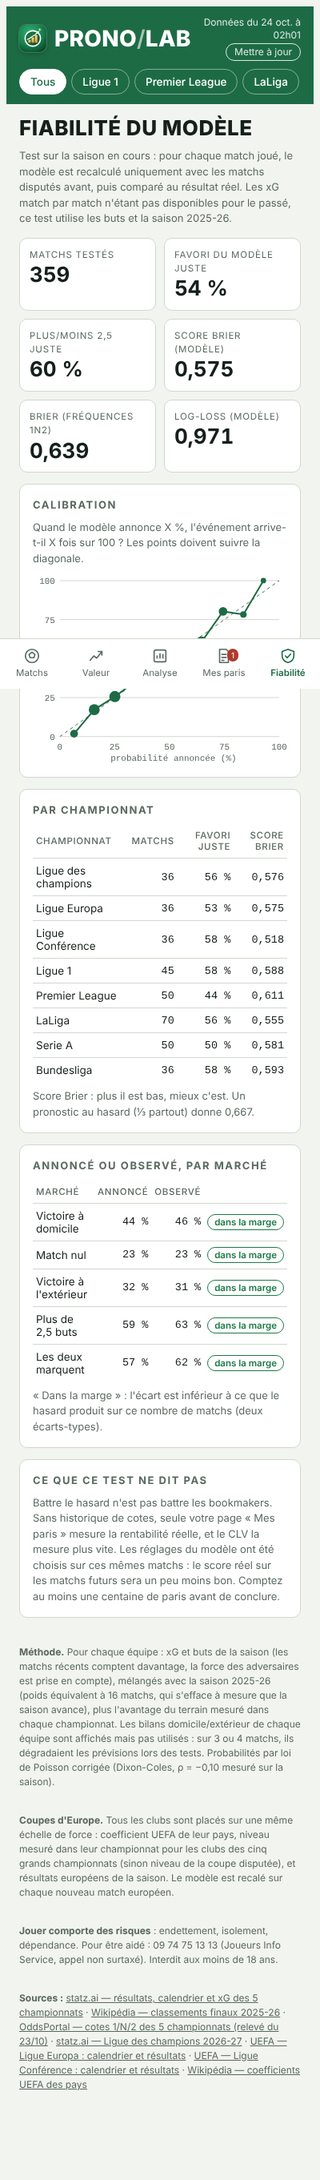
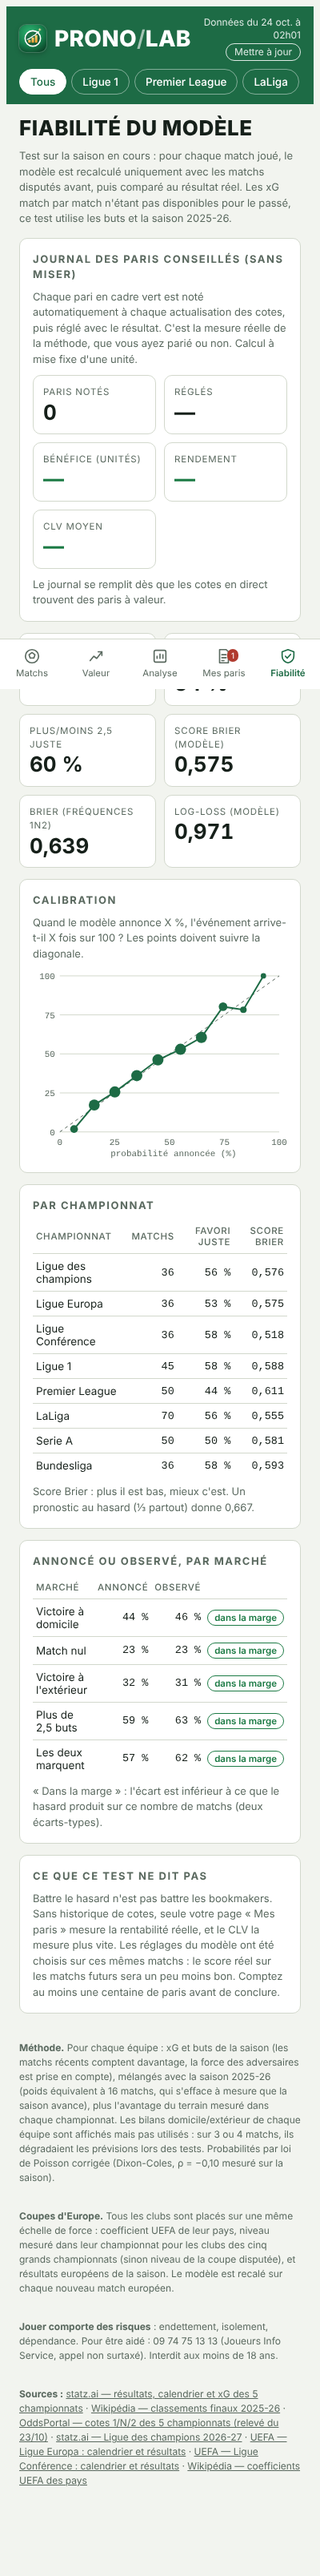
Rentabilité : cotes de référence valables 6 h, seuil de valeur selon l'éloignement du match, pas de pari sur un match commencé, horaires du fournisseur, cote Unibet internationale signalée, CLV automatique, journal des paris conseillés
Claude-Session: https://claude.ai/code/session_01MQ8HS3JA5C3ApubduFf8tp

Changed region(s): [[0.03, 0.0, 0.99, 0.968], [0.87, 0.2498, 0.96, 0.3123]]

diff --git a/app.html b/app.html
@@ -374,6 +374,12 @@ table{border-collapse:collapse;width:100%}
       <div class="viewhead"><h2>Fiabilité du modèle</h2></div>
       <div class="stack">
         <p class="hint">Test sur la saison en cours : pour chaque match joué, le modèle est recalculé uniquement avec les matchs disputés avant, puis comparé au résultat réel. Les xG match par match n'étant pas disponibles pour le passé, ce test utilise les buts et la saison 2025-26.</p>
+        <div class="panel">
+          <p class="label">Journal des paris conseillés (sans miser)</p>
+          <p class="hint" style="margin-bottom:10px">Chaque pari en cadre vert est noté automatiquement à chaque actualisation des cotes, puis réglé avec le résultat. C'est la mesure réelle de la méthode, que vous ayez parié ou non. Calcul à mise fixe d'une unité.</p>
+          <div class="kpis" id="jKpis"></div>
+          <p class="hint" id="jTxt" style="margin-top:10px"></p>
+        </div>
         <div class="kpis" id="fKpis"></div>
         <div class="two">
           <div class="panel">
@@ -718,10 +724,10 @@ function openBookSheet(pre){
   const fixt = L.matches.find(m => m.h === pre.h && m.a === pre.a && !m.s);
   const r = predict(C, pre.h, pre.a), outs = fixt ? matchOutcomes(fixt, r) : [];
   const out = outs.find(x => x.k === pre.mk), p = MARKETS[pre.mk].p(r), mp = out ? out.mp : null;
-  const mo = out && out.sharp ? (1 + SHARP_MIN) / out.p : minOdds(p, mp), [bn, bu] = book();
+  const mo = out && out.sharp ? (1 + sharpMinFor(fixt ? fixt.d : nowStr())) / out.p : minOdds(p, mp), [bn, bu] = book();
   let stake = pre.stake;
   // mise calculée à la cote minimale : prudente, et indépendante de cotes relevées qui ont pu bouger
-  if (stake == null && mo) stake = (out && out.sharp ? stakeFor(out.p, out.p, mo * 1.0001, { min: SHARP_MIN }) : stakeFor(p, mp, mo * 1.0001)).stake || null;
+  if (stake == null && mo) stake = (out && out.sharp ? stakeFor(out.p, out.p, mo * 1.0001, { min: sharpMinFor(fixt ? fixt.d : nowStr()) }) : stakeFor(p, mp, mo * 1.0001)).stake || null;
   const when = fixt ? `${fmtDay(fixt.d)} ${fmtTime(fixt.d)}` : (pre.d ? `${fmtDay(pre.d)} ${fmtTime(pre.d)}` : "");
   const lab = MARKETS[pre.mk].label(H.name, A.name);
   const lines = [`${H.name} – ${A.name}`, `${L.name}${when ? " · " + when : ""}`, `Pari : ${lab}`];
@@ -732,6 +738,7 @@ function openBookSheet(pre){
   $("sheetHost").innerHTML = `<div class="sheet-bg" id="sheetBg"><div class="sheet">
     <h2 style="font-size:22px">Préparer sur ${esc(bn)}</h2>
     <pre style="margin:0;white-space:pre-wrap;background:var(--surface-2);border:1px solid var(--line);border-radius:8px;padding:12px;font-family:var(--font-data);font-size:13.5px">${esc(txt)}</pre>
+    ${out && out.sharp && fixt && fixt.odds && fixt.odds.intl ? `<div class="alert warn"><div><strong>Cote ${esc(bn)} internationale</strong>Le service de cotes fournit la cote ${esc(bn)} hors France. Sur ${esc(bn)}.fr elle peut être plus basse : fiez-vous à la cote minimale.</div></div>` : ""}
     ${!pre.odds && mo ? `<div class="alert warn"><div><strong>Cote minimale : ${fx(mo)}</strong>En dessous, le pari n'a plus de valeur selon le modèle : ne le jouez pas. Au-dessus, c'est d'autant mieux.</div></div>` : ""}
     <p class="hint">Le récapitulatif est copié et l'application ${esc(bn)} s'ouvre (ou son site, si elle n'est pas installée) : retrouvez le match, vérifiez la cote, puis validez vous-même votre pari.</p>
     <div class="row" style="justify-content:flex-end">
@@ -754,8 +761,11 @@ function openBookSheet(pre){
   if ($("bkRecord")) $("bkRecord").onclick = () => openBetSheet({ lg: pre.lg, d: fixt ? fixt.d : pre.d, h: pre.h, a: pre.a, mk: pre.mk });
 }
 const MAX_ODDS = 6, MIN_P = 0.2, VALUE_MIN = 0.04, STALE_H = 72;   // mises à jour lundi, mercredi, vendredi : 72 h couvre le dimanche soir
-const SHARP_MIN = 0.02;   // avec une probabilité tirée des cotes de référence (Pinnacle), un écart de 2 % suffit
-const isValue = x => x.edge >= (x.sharp ? SHARP_MIN : VALUE_MIN) && x.p >= MIN_P && x.o <= MAX_ODDS;
+const SHARP_MIN = 0.02;   // avec une probabilité tirée des cotes de référence (Pinnacle), un écart de 2 % suffit…
+const SHARP_STALE_H = 6;  // …mais une cote de référence vieille de plus de 6 h n'est plus une référence
+// Les cotes de référence sont moins fiables loin du match (peu de mises engagées) : on exige plus de valeur.
+const sharpMinFor = d => { const h = (pDate(d) - pDate(nowStr())) / 36e5; return h <= 24 ? 0.02 : h <= 72 ? 0.03 : 0.04; };
+const isValue = x => x.edge >= (x.sharp ? (x.m ? sharpMinFor(x.m.d) : SHARP_MIN) : VALUE_MIN) && x.p >= MIN_P && x.o <= MAX_ODDS;
 function pendingStake(){ return bets().filter(x => x.status === "pending").reduce((s,x)=>s+x.stake,0); }
 const kellyFrac = (p, o) => (p*o - 1)/(o - 1);
 function stakeFor(pModel, pMarket, odds, opts = {}){
@@ -791,13 +801,17 @@ function matchOutcomes(m, r){
 function planMatches(list){
   const rows = [];
   list.forEach(({ lg, m, C }) => {
+    // C : jamais de recommandation sur un match commencé
+    if (m.d <= nowStr()) return;
     const r = predict(C, m.h, m.a), outs = matchOutcomes(m, r);
-    const stale = outs.length > 0 && hoursSince(outs[0].at) > STALE_H;
+    const stale = outs.length > 0 && hoursSince(outs[0].at) > (outs[0].sharp ? SHARP_STALE_H : STALE_H);
+    const sMin = sharpMinFor(m.d);
     // Sans cotes de référence, le modèle seul n'est pas assez fiable dans deux cas : un fort écart avec le marché
     // (souvent une absence qu'il ignore) et les coupes d'Europe avec un club hors des 5 grands championnats.
     const euroBlind = C.euro && (C.T[m.h].dom == null || C.T[m.a].dom == null);
     outs.forEach(x => {
-      Object.assign(x, stakeFor(x.p, x.mp, x.o, { stale, min: x.sharp ? SHARP_MIN : undefined }));
+      Object.assign(x, stakeFor(x.p, x.mp, x.o, { stale, min: x.sharp ? sMin : undefined }));
+      if (x.sharp && stale && x.edge >= sMin) x.why = "cotes de plus de 6 h : actualisez";
       if (!x.sharp && x.stake > 0 && x.p - x.mp > 0.08){ x.stake = 0; x.why = "écart suspect avec le marché"; }
       if (!x.sharp && x.stake > 0 && liveKey()){ x.stake = 0; x.why = "pas encore de cote de référence pour ce match"; }
       if (!x.sharp && x.stake > 0 && euroBlind){ x.stake = 0; x.why = "club hors 5 grands championnats : attendre les cotes en direct"; }
@@ -808,7 +822,7 @@ function planMatches(list){
   });
   let extra = 0;
   rows.filter(x => x.best).sort((a,b) => b.kf - a.kf).forEach(x => {
-    const st = stakeFor(x.p, x.mp, x.o, { stale: x.stale, extra, min: x.sharp ? SHARP_MIN : undefined });
+    const st = stakeFor(x.p, x.mp, x.o, { stale: x.stale, extra, min: x.sharp ? sharpMinFor(x.m.d) : undefined });
     x.stake = st.stake; if (!st.stake) { x.why = st.why; x.best = false; } extra += x.stake;
   });
   return rows;
@@ -907,7 +921,7 @@ async function refreshLive(manual){
         const cand = books.filter(b => b.key !== SHARP_BOOK && !EXCHANGES.test(b.key));
         const mine = cand.filter(b => (b.key + " " + b.title).toLowerCase().includes(kw)).sort((x,y) => /fr/.test(y.key) - /fr/.test(x.key))[0];
         const best = [0,1,2].map(i => cand.reduce((acc,b) => b.o[i] > acc.o ? { o: b.o[i], bk: b.title } : acc, { o:0, bk:"" }));
-        data[`${lg}|${m.h}|${m.a}`] = { fair, src, n: books.length, mine: mine ? { bk: mine.title, o: mine.o } : null, best: { o: best.map(x=>x.o), bk: best.map(x=>x.bk) } };
+        data[`${lg}|${m.h}|${m.a}`] = { fair, src, n: books.length, t, mine: mine ? { bk: mine.title, key: mine.key, o: mine.o } : null, best: { o: best.map(x=>x.o), bk: best.map(x=>x.bk) } };
         matched++;
       });
     }
@@ -916,7 +930,7 @@ async function refreshLive(manual){
                msg: err || (unmatched ? `${unmatched} match(s) du fournisseur non reconnu(s).` : "") };
   LS.set("pl_live", ns);
   if (btn){ btn.disabled = false; btn.textContent = "Actualiser les cotes"; }
-  applyLive(); render();
+  applyLive(); trackLive(); render();
   toast(err ? err : `Cotes en direct : ${matched} matchs · ${remaining != null ? remaining + " crédits restants" : ""}`);
 }
 function applyLive(){
@@ -926,8 +940,11 @@ function applyLive(){
     const [lg, h, a] = k.split("|"), L = DATA.leagues[lg]; if (!L) return;
     const m = L.matches.find(x => !x.s && x.h === h && x.a === a); if (!m) return;
     const useMine = v.mine && settings().bestPrice !== true;
-    m.odds = { sharp: true, at: st.at, fair: v.fair, fairSrc: v.src, n: v.n,
-               bk: useMine ? v.mine.bk : null, o: useMine ? v.mine.o : v.best.o, bkPer: useMine ? null : v.best.bk };
+    // l'horaire du fournisseur de cotes est plus fiable que celui du calendrier (heure non précisée, changement de dernière minute)
+    if (v.t && Math.abs(pDate(v.t) - pDate(m.d)) <= 36*36e5) m.d = v.t;
+    const intl = useMine && v.mine.key && !/fr/.test(v.mine.key);
+    m.odds = { sharp: true, at: st.at, fair: v.fair, fairSrc: v.src, n: v.n, intl,
+               bk: useMine ? v.mine.bk + (intl ? " (cote internationale)" : "") : null, o: useMine ? v.mine.o : v.best.o, bkPer: useMine ? null : v.best.bk };
   });
 }
 function liveStatus(){
@@ -936,6 +953,43 @@ function liveStatus(){
   if (!st.at) return "Cotes en direct prêtes : touchez « Actualiser les cotes ».";
   const h = hoursSince(st.at), ago = h < 1 ? `${Math.max(1, Math.round(h*60))} min` : `${Math.round(h)} h`;
   return `Cotes en direct actualisées il y a ${ago}${st.matched ? ` · ${st.matched} matchs` : ""}${st.remaining != null ? ` · ${st.remaining} crédits restants ce mois-ci` : ""}${st.msg ? " · " + st.msg : ""}`;
+}
+
+
+/* CLV automatique et journal des paris conseillés.
+   À chaque actualisation des cotes : (1) chaque pari en attente reçoit la dernière probabilité de référence de son issue
+   → « valeur au dernier relevé » = cote prise × probabilité de référence − 1 (au plus près du coup d'envoi = CLV) ;
+   (2) chaque pari conseillé est noté dans un journal, réglé avec les résultats : on mesure la méthode sans miser. */
+const IDX = { "1":0, "N":1, "2":2 };
+const journal = () => LS.get("pl_journal", []);
+function trackLive(){
+  const st = liveState(); if (!st.at || !st.data) return;
+  const refOf = (lg, h, a) => st.data[`${lg}|${h}|${a}`];
+  const b = bets(); let ch = false;
+  b.forEach(x => { if (x.status !== "pending" || !(x.mk in IDX)) return; const v = refOf(x.lg, x.h, x.a); if (!v) return;
+    const m = findMatch(x); if (m && m.d <= st.at) return;          // match commencé : on garde le dernier relevé d'avant-match
+    x.refP = v.fair[IDX[x.mk]]; x.refAt = st.at; ch = true; });
+  if (ch) saveBets(b);
+  const j = journal(), keys = new Set(j.map(e => e.key)), list = [];
+  for (const [lg, L] of Object.entries(DATA.leagues)) L.matches.filter(m => !m.s && m.odds && m.odds.sharp).forEach(m => list.push({ lg, m, C: CL[lg] }));
+  planMatches(list).filter(x => x.best && x.stake > 0).forEach(x => {
+    const key = `${x.lg}|${x.m.h}|${x.m.a}|${x.k}`;
+    if (!keys.has(key)) { j.push({ key, lg: x.lg, h: x.m.h, a: x.m.a, d: x.m.d, mk: x.k, o: x.o, p: x.p, edge: x.edge, bk: x.bk, at: st.at, hn: x.H, an: x.A }); keys.add(key); }
+  });
+  j.forEach(e => { if (e.res || !(e.mk in IDX)) return; const v = refOf(e.lg, e.h, e.a); if (v && e.d > st.at){ e.refP = v.fair[IDX[e.mk]]; e.refAt = st.at; } });
+  LS.set("pl_journal", j.slice(-500));
+}
+function settleJournal(){
+  const j = journal(); let ch = false;
+  j.forEach(e => { if (e.res) return; const m = findMatch(e); if (m && m.s){ e.res = MARKETS[e.mk].win(m.s[0], m.s[1]) ? "won" : "lost"; e.score = m.s; ch = true; } });
+  if (ch) LS.set("pl_journal", j);
+}
+function journalStats(){
+  const j = journal(), done = j.filter(e => e.res), won = done.filter(e => e.res === "won");
+  const profit = done.reduce((s,e) => s + (e.res === "won" ? e.o - 1 : -1), 0);
+  const withRef = j.filter(e => e.refP), clv = withRef.length ? withRef.reduce((s,e) => s + (e.o * e.refP - 1), 0) / withRef.length : null;
+  const expW = done.reduce((s,e) => s + e.p, 0);
+  return { n: j.length, done: done.length, won: won.length, profit, roi: done.length ? profit / done.length : null, clv, nclv: withRef.length, expW, pending: j.length - done.length };
 }
 
 /* ================= Paris ================= */
@@ -948,6 +1002,7 @@ function findMatch(b){
       || L.matches.find(m => m.h === b.h && m.a === b.a && m.s && m.d.slice(0,10) >= b.d.slice(0,10));
 }
 function autoSettle(){
+  settleJournal();
   const b = bets(); let changed = 0;
   b.forEach(x => {
     if (x.status !== "pending" || !MARKETS[x.mk]) return;
@@ -965,7 +1020,8 @@ function betStats(){
   const wins = set.filter(x=>x.status==="won").length;
   const weekAgo = parisStr(Date.now() - 7*864e5);
   const week = b.filter(x => x.createdAt >= weekAgo).reduce((s,x)=>s+x.stake,0);
-  const cl = b.filter(x => x.close > 1), clv = cl.length ? cl.reduce((s,x)=>s+(x.odds/x.close-1),0)/cl.length : null;
+  // CLV : cote de clôture saisie à la main en priorité, sinon dernière probabilité de référence relevée avant le match
+  const cl = b.filter(x => x.close > 1 || x.refP > 0), clv = cl.length ? cl.reduce((s,x)=>s+(x.close > 1 ? x.odds/x.close-1 : x.odds*x.refP-1),0)/cl.length : null;
   const chrono = set.slice().sort((a,c)=> (a.settledAt||a.d) < (c.settledAt||c.d) ? -1 : 1);
   let streak = 0; for (let i = chrono.length-1; i >= 0 && chrono[i].status === "lost"; i--) streak++;
   let bank = settings().bank, peak = bank, dd = 0; chrono.forEach(x => { bank += profitOf(x); peak = Math.max(peak, bank); dd = Math.max(dd, (peak-bank)/peak); });
@@ -1094,7 +1150,7 @@ function renderMatchs(){
       }
       const started = m.d <= now;
       html += `<article class="mcard${best?" value":""}">
-        ${best ? `<div class="ribbon"><span>✓ Pari à valeur : ${esc(MARKETS[best.k].label(H.name, A.name))}</span><span class="num">cote ≥ ${fx(best.sharp ? (1+SHARP_MIN)/best.p : minOdds(best.p, best.mp))} · mise ${eur(best.stake)}</span></div>` : ""}
+        ${best ? `<div class="ribbon"><span>✓ Pari à valeur : ${esc(MARKETS[best.k].label(H.name, A.name))}</span><span class="num">cote ≥ ${fx(best.sharp ? (1+sharpMinFor(m.d))/best.p : minOdds(best.p, best.mp))} · mise ${eur(best.stake)}</span></div>` : ""}
         <div class="mtop"><span>${fmtTime(m.d)}${started?" · en cours ou joué":""}</span><span>${H.rank}e contre ${A.rank}e</span></div>
         <div class="mteams"><div class="t${H.name.length>9?" long":""}">${esc(H.name)}</div><div class="xg">${fx(r.lh,1)} – ${fx(r.la,1)}</div><div class="t a${A.name.length>9?" long":""}">${esc(A.name)}</div></div>
         <div class="minibar"><i class="h" style="width:${r.pH*100}%"></i><i class="d" style="width:${r.pD*100}%"></i><i class="a" style="width:${r.pA*100}%"></i></div>
@@ -1240,13 +1296,15 @@ function renderAnalyse(){
 }
 function renderEdges(){
   if (!ui.last) return;
-  const { r } = ui.last;
+  let { r } = ui.last; const fx0 = ui.last.fixt;
+  // avec des cotes de référence pour ce match, la vraie probabilité 1N2 est celle de la référence, pas celle du modèle
+  if (fx0 && fx0.odds && fx0.odds.sharp) r = Object.assign({}, r, { pH: fx0.odds.fair[0], pD: fx0.odds.fair[1], pA: fx0.odds.fair[2] });
   const grp = (ids, probs, host) => {
     const o = ids.map(id => parseFloat(($(id).value||"").replace(",", ".")));
     const mp = o.every(x => x > 1) ? marketProbs(o) : o.map(() => null);
     $(host).innerHTML += o.map((x,i) => {
       if (!(x > 1)) return `<div class="edge">&nbsp;</div>`;
-      const st = stakeFor(probs[i], mp[i], x);
+      const st = fx0 && fx0.odds && fx0.odds.sharp && ids[0] === "ao1" ? stakeFor(probs[i], probs[i], x, { min: sharpMinFor(fx0.d) }) : stakeFor(probs[i], mp[i], x);
       return `<div class="edge ${st.edge>=VALUE_MIN?"edge-pos":"edge-neg"}">${st.edge>0?"+":""}${(st.edge*100).toFixed(0)} %${st.stake>0?` · mise ${eur(st.stake)}`:""}</div>`;
     }).join("");
   };
@@ -1354,7 +1412,7 @@ function renderParis(){
       return `<div class="bet ${x.status}">
         <div class="bt">${esc(x.hn)} – ${esc(x.an)}${x.score?` <span class="num">(${x.score[0]}-${x.score[1]})</span>`:""}</div>
         <div class="bp"><span class="tag ${x.status==="won"?"good":x.status==="lost"?"bad":"muted"}">${stLab[x.status]}</span><br>${x.status==="pending"?eur(x.stake):(pr>=0?"+":"")+eur(pr)}</div>
-        <div class="bm">${esc(lab)} · cote ${fx(x.odds)} · mise ${eur(x.stake)} · modèle ${pct(x.p||0)} · ${fmtDay(x.d)}${x.close>1?` · clôture ${fx(x.close)} (${x.odds>=x.close?"+":""}${pct(x.odds/x.close-1,1)})`:""}</div>
+        <div class="bm">${esc(lab)} · cote ${fx(x.odds)} · mise ${eur(x.stake)} · modèle ${pct(x.p||0)} · ${fmtDay(x.d)}${x.close>1?` · clôture ${fx(x.close)} (${x.odds>=x.close?"+":""}${pct(x.odds/x.close-1,1)})`:""}${!(x.close>1) && x.refP ? ` · valeur au dernier relevé <strong class="${x.odds*x.refP>=1?"edge-pos":""}">${x.odds*x.refP>=1?"+":""}${pct(x.odds*x.refP-1,1)}</strong>` : ""}</div>
         <div class="ba"><label class="hint" style="display:flex;gap:6px;align-items:center">Cote à la clôture <input type="number" step="0.01" min="1.01" inputmode="decimal" data-close="${x.id}" value="${x.close||""}" style="width:90px;padding:4px 8px"></label></div>
         ${x.status==="pending" ? `<div class="ba"><button class="btn sm" type="button" data-bk="${x.id}">${esc(book()[0])} ↗</button><button class="btn sm ghost" type="button" data-st="won|${x.id}">Gagné</button><button class="btn sm ghost" type="button" data-st="lost|${x.id}">Perdu</button><button class="btn sm ghost" type="button" data-st="void|${x.id}">Annulé</button><button class="btn sm ghost" type="button" data-st="del|${x.id}">Supprimer</button></div>` : `<div class="ba"><button class="btn sm ghost" type="button" data-st="pending|${x.id}">Rouvrir</button></div>`}
       </div>`;
@@ -1414,7 +1472,21 @@ function showText(title, txt){
 function renderBadge(){ const n = bets().filter(x => x.status === "pending").length; $("navBadge").hidden = !n; $("navBadge").textContent = n; }
 
 /* ================= Vue : Fiabilité ================= */
+function renderJournal(){
+  const s = journalStats();
+  $("jKpis").innerHTML = [
+    ["Paris notés", String(s.n)],
+    ["Réglés", s.done ? `${s.won}/${s.done} gagnés` : "—"],
+    ["Bénéfice (unités)", s.done ? (s.profit>=0?"+":"") + fx(s.profit,1) : "—", s.profit>=0?"pos":"neg"],
+    ["Rendement", s.roi != null ? (s.roi>=0?"+":"") + pct(s.roi,1) : "—", (s.roi||0)>=0?"pos":"neg"],
+    ["CLV moyen", s.clv != null ? (s.clv>=0?"+":"") + pct(s.clv,1) : "—", (s.clv||0)>=0?"pos":"neg"],
+  ].map(([k,v,c]) => `<div class="kpi"><div class="k">${k}</div><div class="v num ${c||""}">${v}</div></div>`).join("");
+  $("jTxt").textContent = !s.n ? "Le journal se remplit dès que les cotes en direct trouvent des paris à valeur."
+    : s.done < 50 ? `Encore trop tôt pour conclure (${s.done} pari${s.done>1?"s":""} réglé${s.done>1?"s":""}). Le CLV moyen est le premier indicateur fiable : s'il reste positif, la méthode bat le marché.`
+    : s.clv >= 0 ? "Le CLV moyen est positif sur un échantillon déjà significatif : la méthode bat le marché. Les résultats suivront à long terme." : "Le CLV moyen est négatif : la méthode ne bat pas le marché pour l'instant. Réduisez vos mises et parlez-en avec Claude.";
+}
 function renderFiab(){
+  renderJournal();
   const B = BT || backtest();
   const recs = ui.lg === "all" ? B.recs : B.recs.filter(r => r.lg === ui.lg);
   if (!recs.length){ $("fKpis").innerHTML = `<div class="empty">Pas encore assez de matchs pour tester le modèle.</div>`; return; }
